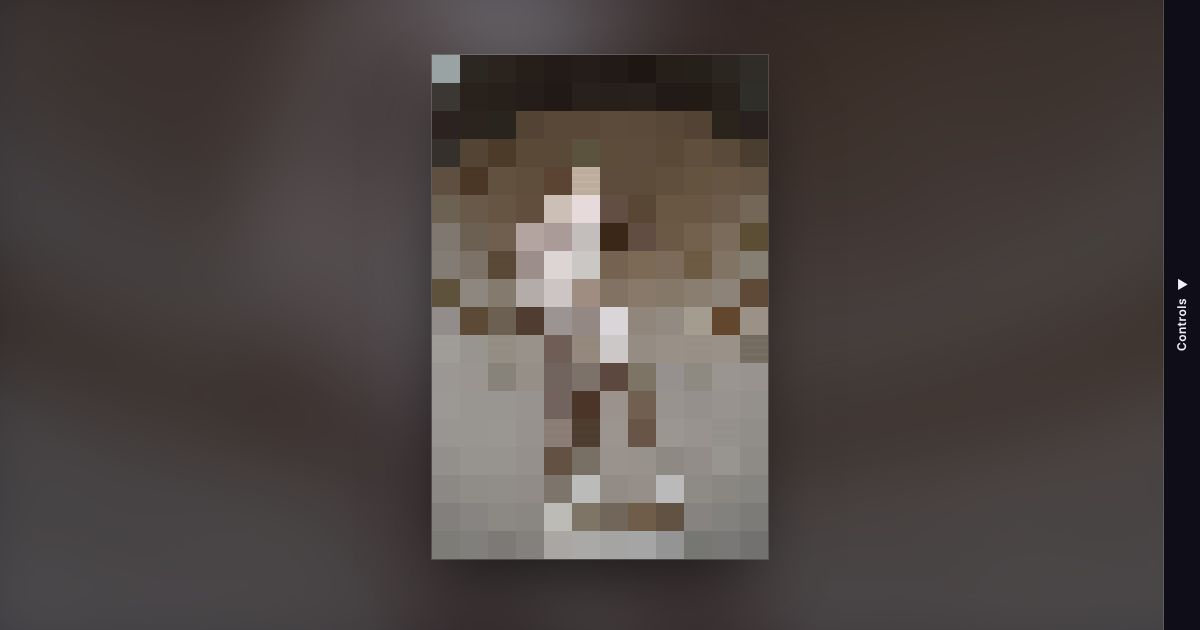
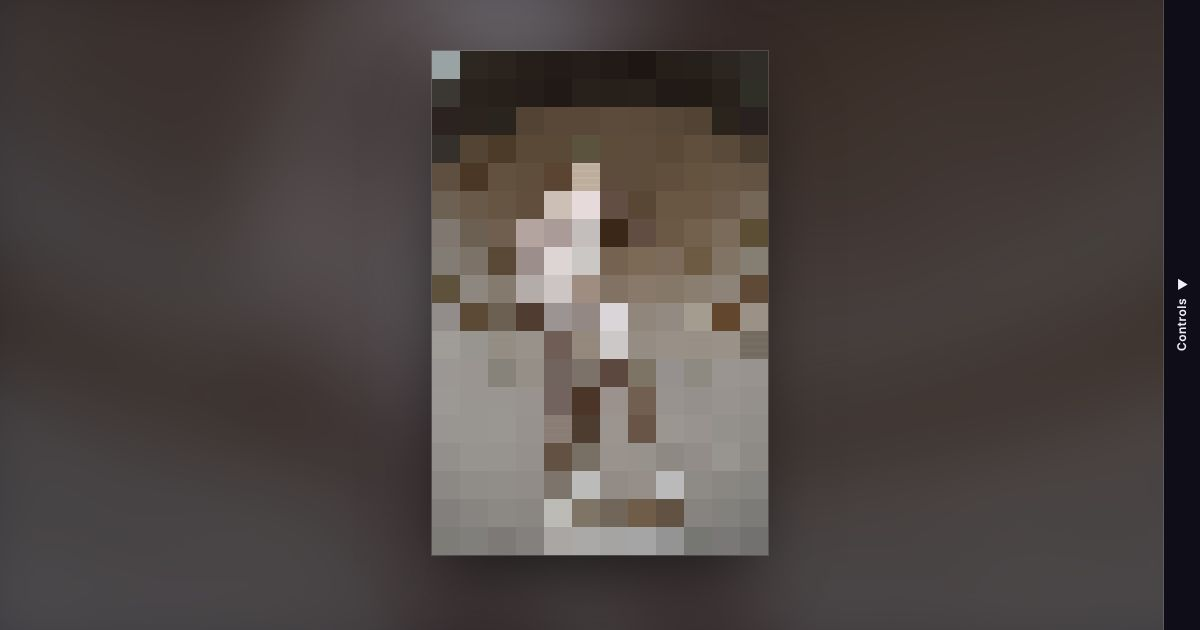
Pixelator: Halve and Double step the pixels a quarter at a time
Each step doubles the block side with pow(), so the pixel count drops
to a quarter. The steps are radio inputs read with :has(), with labels
as the buttons and a form reset to return to the loop: no script. The
loop steps through the same halvings, and a counter() readout shows the
pixel count.

Claude-Session: https://claude.ai/code/session_01KXCJqhPeu7BD1JnAoBFcPy

diff --git a/scenes/pixelator/scene.css b/scenes/pixelator/scene.css
@@ -7,6 +7,8 @@
   agree, which is what turns fine tiles into big pixels.
 */
 @property --k { syntax: "<integer>"; inherits: true; initial-value: 1; }       /* block size, in tiles */
+@property --step { syntax: "<integer>"; inherits: false; initial-value: 0; }  /* how many times the pixels are halved */
+@property --count { syntax: "<integer>"; inherits: false; initial-value: 0; }
 @property --cols { syntax: "<integer>"; inherits: true; initial-value: 48; }
 @property --rows { syntax: "<integer>"; inherits: true; initial-value: 72; }
 
@@ -15,16 +17,17 @@
     --photo: url(/scenes/pixelator/assets/david.jpg); /* from the site root: the page is served with and without a trailing slash */
     --ar: 0.6667;    /* the photo's width / height. CSS can't read that from an image, so the script sets it for an upload */
     /* Controls */
-    --size: 8;       /* the biggest block, in tiles */
+    --depth: 3;      /* how many halvings the loop goes through */
+    --level: var(--depth); /* the step on show once Halve or Double has been pressed */
     --cells: 3456;   /* how many tiles to aim for; the markup holds 3,600 */
     --loop: 16s;
-    --below: 7.5rem; /* room under the frame for the button and the credit */
+    --below: 10.5rem; /* room under the frame for the buttons and the credit */
 
     /* The tile sheet takes the photo's shape: cols x rows comes as close to --cells as whole numbers allow.
        Very long or tall photos are cropped to 3:1. */
     --shape: clamp(0.34, var(--ar), 3);
-    --cols: round(sqrt(var(--cells) * var(--shape)));
-    --rows: round(var(--cols) / var(--shape));
+    --cols: round(sqrt(var(--cells) * var(--shape)), 1);
+    --rows: round(var(--cols) / var(--shape), 1);
     /* How much of the photo the sheet covers each way once it is cropped to fit (1 = all of it) */
     --fx: min(1, var(--cols) / var(--rows) / var(--ar));
     --fy: min(1, var(--ar) * var(--rows) / var(--cols));
@@ -32,7 +35,7 @@
     --frame-edge: light-dark(#14121f33, #ffffff29);
     container-type: size;
     display: grid;
-    grid-template-rows: 1fr auto auto;
+    grid-template-rows: 1fr auto auto auto;
     justify-items: center;
     align-items: center;
     gap: 0.6rem;
@@ -66,7 +69,9 @@
     grid-template-columns: repeat(var(--cols), var(--tile));
     grid-auto-rows: var(--tile);
     overflow: clip;   /* spare tiles land in rows below the frame */
-    --k: var(--size);
+    /* Each step doubles the block's side, so the picture keeps a quarter as many pixels */
+    --step: var(--level);
+    --k: round(pow(2, var(--step)), 1);
   }
   .grid i {
     /* Column and row, counted from 0 */
@@ -95,19 +100,59 @@
     [data-indexed] .grid { display: grid; }
   }
 
-  /* The loop: sharp photo, finest tiles, bigger and bigger blocks, and back. --k is an integer, so it moves in steps,
-     and the tiles repaint only when it does. */
-  [data-auto] .grid {
-    animation: block var(--loop) linear infinite both, veil var(--loop) linear infinite both; /* paint-ok: --k repaints the tiles about twice a second */
+  /* The loop: sharp photo, finest tiles, then halve, halve, halve and back. --step is an integer, so it moves in
+     whole steps and the tiles repaint only when it does. Picking a step by hand stops the loop. */
+  .stage:not(:has(.steps :checked)) .grid {
+    animation: halve var(--loop) linear infinite both, veil var(--loop) linear infinite both; /* paint-ok: --step repaints the tiles a few times per loop */
   }
-  @keyframes block {
-    0%, 12%, 92%, 100% { --k: 1; }
-    48%, 58% { --k: var(--size); }
+  @keyframes halve {
+    0%, 14%, 90%, 100% { --step: 0; }
+    46%, 58% { --step: var(--depth); }
   }
   @keyframes veil {
     0%, 5%, 97%, 100% { opacity: 0; }
     10%, 93% { opacity: 1; }
   }
+
+  /* Halve and Double with no script: six radio buttons hold the step. From step n, the label for n + 1 is shown as
+     Halve and the label for n - 1 as Double. With nothing picked yet the loop is playing, and Halve starts at 1. */
+  .stage:has(#s0:checked) { --level: 0; }
+  .stage:has(#s1:checked) { --level: 1; }
+  .stage:has(#s2:checked) { --level: 2; }
+  .stage:has(#s3:checked) { --level: 3; }
+  .stage:has(#s4:checked) { --level: 4; }
+  .stage:has(#s5:checked) { --level: 5; }
+  .steps {
+    display: flex;
+    align-items: center;
+    justify-content: center;
+    gap: 0.5rem;
+    font-size: 0.9rem;
+  }
+  .steps input { position: absolute; opacity: 0; inline-size: 1px; block-size: 1px; }
+  .steps label { display: none; }
+  .steps:not(:has(:checked)) label[for="s1"],
+  #s0:checked ~ label[for="s1"], #s1:checked ~ label[for="s2"], #s2:checked ~ label[for="s3"],
+  #s3:checked ~ label[for="s4"], #s4:checked ~ label[for="s5"] { display: block; order: 3; }
+  #s1:checked ~ label[for="s0"], #s2:checked ~ label[for="s1"], #s3:checked ~ label[for="s2"],
+  #s4:checked ~ label[for="s3"], #s5:checked ~ label[for="s4"] { display: block; order: 1; }
+  .steps label::before { content: "Halve"; }
+  #s1:checked ~ label[for="s0"]::before, #s2:checked ~ label[for="s1"]::before, #s3:checked ~ label[for="s2"]::before,
+  #s4:checked ~ label[for="s3"]::before, #s5:checked ~ label[for="s4"]::before { content: "Double"; }
+  /* The readout counts the blocks, cut-off ones at the edges included */
+  .steps output {
+    order: 2;
+    min-inline-size: 7.5rem;
+    text-align: center;
+    font-variant-numeric: tabular-nums;
+    --count: calc(round(up, var(--cols) / pow(2, var(--level)), 1) * round(up, var(--rows) / pow(2, var(--level)), 1));
+    counter-reset: pixels var(--count);
+  }
+  .steps output::after { content: counter(pixels) " pixels"; }
+  .steps:not(:has(:checked)) output::after { content: "Looping"; }
+  .steps button { order: 4; }
+  .steps:not(:has(:checked)) button { display: none; }
+  .steps:has(:focus-visible) output { outline: 2px solid var(--c-accent); outline-offset: 2px; border-radius: 0.25rem; }
 
   .tools {
     display: flex;
@@ -118,7 +163,7 @@
     font-size: 0.9rem;
   }
   .tools[hidden] { display: none; }
-  .pick, .back {
+  .pick, .back, .steps label, .steps button {
     padding: 0.5rem 1rem;
     border: 1px solid var(--c-ink);
     border-radius: 99rem;
@@ -127,7 +172,8 @@
     cursor: pointer;
   }
   .pick { background: var(--c-ink); color: var(--c-paper); }
-  .back { background: none; color: inherit; }
+  .back, .steps label, .steps button { background: none; color: inherit; }
+  .steps label, .steps button { padding-block: 0.3rem; user-select: none; }
   .pick input { position: absolute; opacity: 0; inline-size: 1px; block-size: 1px; }
   .pick:has(:focus-visible), .back:focus-visible { outline: 2px solid var(--c-accent); outline-offset: 2px; }
   .note { flex-basis: 100%; text-align: center; opacity: 0.75; }
@@ -135,14 +181,17 @@
   .credit a { color: inherit; }
   .stage:not([data-own]) .back, [data-own] .credit { display: none; }
   /* Gallery cards show the picture alone */
-  :root:has(#card:target) :is(.tools, .credit) { display: none; }
+  :root:has(#card:target) :is(.steps, .tools, .credit) { display: none; }
   :root:has(#card:target) .stage { --below: 2rem; }
   /* A file dragged over the window */
   [data-drop] .frame { outline: 3px dashed var(--c-accent); outline-offset: 0.4rem; }
 
   @media (prefers-reduced-motion: reduce) {
-    /* A still mosaic at the chosen block size; the wipe still works, without the fade */
-    [data-auto] .grid { animation: none; }
+    /* No loop: a still mosaic of the finest tiles until a step is picked. The wipe still works, without the fade */
+    .stage { --level: 0; }
+    .stage:not(:has(.steps :checked)) .grid { animation: none; }
+    .stage .steps output::after { content: counter(pixels) " pixels"; }
+    .stage .steps button { display: none; }
     .grid i { transition: none; }
   }
 }

diff --git a/scenes/pixelator/index.html b/scenes/pixelator/index.html
@@ -5,7 +5,7 @@
 <meta name="color-scheme" content="light dark">
 <title>Pixelator</title>
 <!--css-->
-<main class="stage" data-auto aria-label="A photo of Michelangelo's David breaks into a mosaic of square tiles. The tiles merge into bigger and bigger blocks until the statue is a handful of flat colours, then split again until the photo is sharp. Move the pointer across the picture to wipe the tiles away, or swap in a photo of your own.">
+<main class="stage" aria-label="A photo of Michelangelo's David breaks into a mosaic of square tiles. The tiles merge into bigger and bigger blocks until the statue is a handful of flat colours, then split again until the photo is sharp. Halve and Double step the pixels by hand: each Halve leaves a quarter as many. Move the pointer across the picture to wipe the tiles away, or swap in a photo of your own.">
 <div class="frame">
 <div class="photo" role="img" aria-label="Michelangelo's David in the Galleria dell'Accademia, Florence"></div>
 <!-- 3,600 empty tiles: each one works out its own column and row from sibling-index() and shows one point of the photo -->
@@ -48,6 +48,18 @@
 <i></i><i></i><i></i><i></i><i></i><i></i><i></i><i></i><i></i><i></i><i></i><i></i><i></i><i></i><i></i><i></i><i></i><i></i><i></i><i></i><i></i><i></i><i></i><i></i><i></i><i></i><i></i><i></i><i></i><i></i><i></i><i></i><i></i><i></i><i></i><i></i><i></i><i></i><i></i><i></i><i></i><i></i><i></i><i></i><i></i><i></i><i></i><i></i><i></i><i></i><i></i><i></i><i></i><i></i><i></i><i></i><i></i><i></i><i></i><i></i><i></i><i></i><i></i><i></i><i></i><i></i><i></i><i></i><i></i><i></i><i></i><i></i><i></i><i></i><i></i><i></i><i></i><i></i><i></i><i></i><i></i><i></i><i></i><i></i><i></i><i></i><i></i><i></i><i></i><i></i><i></i><i></i><i></i><i></i><i></i><i></i><i></i><i></i><i></i><i></i>
 </div>
 </div>
+<!-- The steps are radio buttons. Each label is the "button" that picks the next or previous one, and Reset clears them all, which hands the picture back to the loop -->
+<form class="steps" aria-label="Pixel steps">
+<input type="radio" name="step" id="s0" aria-label="Every tile its own pixel">
+<input type="radio" name="step" id="s1" aria-label="Halved once: a quarter of the pixels">
+<input type="radio" name="step" id="s2" aria-label="Halved twice: 1/16 of the pixels">
+<input type="radio" name="step" id="s3" aria-label="Halved 3 times: 1/64 of the pixels">
+<input type="radio" name="step" id="s4" aria-label="Halved 4 times: 1/256 of the pixels">
+<input type="radio" name="step" id="s5" aria-label="Halved 5 times: 1/1024 of the pixels">
+<label for="s0" aria-hidden="true"></label><label for="s1" aria-hidden="true"></label><label for="s2" aria-hidden="true"></label><label for="s3" aria-hidden="true"></label><label for="s4" aria-hidden="true"></label><label for="s5" aria-hidden="true"></label>
+<output aria-hidden="true"></output>
+<button type="reset">Play loop</button>
+</form>
 <div class="tools" role="group" aria-label="Photo" hidden>
 <label class="pick"><input type="file" accept="image/*">Use your photo</label>
 <button type="button" class="back">Back to David</button>

diff --git a/scenes/pixelator/writeup.md b/scenes/pixelator/writeup.md
@@ -4,7 +4,7 @@ slug: pixelator
 ---
 ## The idea
 
-A photo of Michelangelo's David hangs in a frame. A sheet of small square tiles lies over it, and the tiles merge into bigger and bigger blocks until the statue is a handful of flat colours, then split again until the photo is sharp. Moving the pointer over the picture wipes the tiles away. A button swaps in a photo of your own.
+A photo of Michelangelo's David hangs in a frame. A sheet of small square tiles lies over it. Halve merges the tiles into blocks twice as wide, which leaves a quarter as many pixels, and Double splits them again. Left alone, the scene steps through the halvings on a loop. Moving the pointer over the picture wipes the tiles away. A button swaps in a photo of your own.
 
 CSS has no "average this region" and no way to read a pixel. `image-rendering: pixelated` only helps when the source is already small. So the scene does the sampling with a background.
 
@@ -26,7 +26,7 @@ Every tile paints the whole photo as its background, at 10,000,000% of the tile'
 
 `--u` and `--v` are where the tile sits on the sheet, from 0 to 1. `--fx` and `--fy` shrink that range when the photo is cropped to fit the frame.
 
-A smaller magnification shows why the number is so big. At 1,000,000% each tile carried a faint gradient, and a block of identical tiles showed it as stripes.
+A smaller magnification shows why the number is so big. At 100,000% each tile carries a visible gradient, and a block of identical tiles shows it as stripes.
 
 This is a point sample, not an average. A busy photo comes out grainier than it would from a real mosaic filter.
 
@@ -48,7 +48,7 @@ Where `sibling-index()` is missing, the script writes `--i` on each tile and the
 
 ### round() merges tiles into blocks
 
-The block size `--k` is counted in tiles. Rounding a tile's column and row down to a multiple of `--k` gives the corner of its block, and half a block more gives the middle. Every tile in a block gets the same answer, so they all show the same colour:
+The block's side `--k` is counted in tiles. Rounding a tile's column and row down to a multiple of `--k` gives the corner of its block, and half a block more gives the middle. Every tile in a block gets the same answer, so they all show the same colour:
 
 ```css
 --u: calc(min(round(down, var(--x), var(--k)) + var(--k) / 2, var(--cols) - 0.5) / var(--cols));
@@ -56,18 +56,51 @@ The block size `--k` is counted in tiles. Rounding a tile's column and row down 
 
 The `min()` keeps the last, cut-off block sampling from inside the photo. The markup never changes: 3,456 tiles are always there, and only the arithmetic makes them look like 54.
 
-### The block size is a registered integer
+### Halving: each step keeps a quarter of the pixels
+
+`--step` counts halvings, and the block's side doubles with each one:
 
 ```css
-@property --k { syntax: "<integer>"; inherits: true; initial-value: 1; }
+@property --step { syntax: "<integer>"; inherits: false; initial-value: 0; }
 
-@keyframes block {
-  0%, 12%, 92%, 100% { --k: 1; }
-  48%, 58% { --k: var(--size); }
+.grid {
+  --step: var(--level);
+  --k: round(pow(2, var(--step)), 1);
 }
 ```
 
-Because `--k` is registered as an integer, the animation moves it in whole steps. The tiles repaint only when it changes. A second animation fades the whole sheet in and out at the ends of the loop, which is where the sharp photo shows. With the Controls switch off, `--k` is simply `--size` and the scene is a plain pixelator.
+Doubling the side on both axes leaves a quarter as many pixels: David goes 3,456, 864, 216, 54, 15, 6. The last two aren't exact quarters because the blocks at the edges are cut off.
+
+The loop animates `--step` from 0 to `--depth` and back. It is registered as an integer, so it moves in whole steps and the tiles repaint only when it changes. A second animation fades the sheet out at the ends of the loop, which is where the sharp photo shows.
+
+### Halve and Double without a script
+
+The step is held by six radio buttons in a form. `:has()` reads the checked one into `--level`:
+
+```css
+.stage:has(#s2:checked) { --level: 2; }
+```
+
+Each radio has a `<label>`. From step 2, the label for step 3 is shown with the word Halve and the label for step 1 with the word Double; the rest stay hidden. Clicking a label checks its radio, which is all a button would do:
+
+```css
+#s2:checked ~ label[for="s3"] { display: block; order: 3; }   /* Halve */
+#s2:checked ~ label[for="s1"] { display: block; order: 1; }   /* Double */
+```
+
+While nothing is checked, the loop plays. The first press of Halve checks step 1 and the loop's selector, `.stage:not(:has(.steps :checked))`, stops matching. Play loop is a plain `<button type="reset">`: resetting the form unchecks every radio, and the loop starts again. The arrow keys move through the radios too.
+
+### Counting pixels with counter()
+
+The readout between the buttons is a CSS counter. A registered integer takes the arithmetic, and `counter-reset` turns it into text:
+
+```css
+.steps output {
+  --count: calc(round(up, var(--cols) / pow(2, var(--level)), 1) * round(up, var(--rows) / pow(2, var(--level)), 1));
+  counter-reset: pixels var(--count);
+}
+.steps output::after { content: counter(pixels) " pixels"; }
+```
 
 ### The sheet takes the photo's shape
 
@@ -75,8 +108,8 @@ The script tells CSS one thing about an uploaded photo: its aspect ratio, `--ar`
 
 ```css
 --shape: clamp(0.34, var(--ar), 3);
---cols: round(sqrt(var(--cells) * var(--shape)));
---rows: round(var(--cols) / var(--shape));
+--cols: round(sqrt(var(--cells) * var(--shape)), 1);
+--rows: round(var(--cols) / var(--shape), 1);
 ```
 
 David is 2:3, which gives 48 by 72. A 4:3 photo gets 68 by 51. Tiles left over land in rows below the frame and are clipped. The tile's side is rounded down to a whole pixel, so tiles meet without seams:
@@ -109,13 +142,14 @@ The photo is read in place. Nothing is uploaded.
 
 - No `sibling-index()`: the script supplies `--i`.
 - No `round()` or `mod()`, or no script and no `sibling-index()`: the tile sheet stays hidden and the frame shows the photo.
-- Reduced motion: a still mosaic at the chosen block size. The wipe works without its fade.
+- Reduced motion: no loop. The finest tiles show until a step is picked, and the wipe works without its fade.
 
 ## Numbers
 
-- Page: 5.2 KiB Brotli of a 14 KiB budget (HTML, CSS and script).
+- Page: 5.8 KiB Brotli of a 14 KiB budget (HTML, CSS and script).
 - Default photo: 94 KB JPEG, loaded as a separate file.
-- 3,600 tile elements. A block-size step restyles all of them, which took about 0.2 s in the headless cloud browser used to build this (software rendering, slow CPU). It has not been measured on a real machine yet.
+- In software rendering, about one tile in 150 shows a faint two-tone split, because the renderer's interpolation is coarse at this magnification. A GPU should interpolate more finely; that is not checked yet.
+- 3,600 tile elements. A step restyles all of them, which took about 0.2 s in the headless cloud browser used to build this (software rendering, slow CPU). It has not been measured on a real machine yet.
 
 ## Credit
 

diff --git a/scenes/pixelator/brief.md b/scenes/pixelator/brief.md
@@ -3,7 +3,7 @@
 Status: APPROVED. The owner asked for this scene on 2026-11-10 ("a css image 'pixelator' scene", with "a control for the user to upload their own photo, which can replace the default photo", and "a photo of Michelangelo's David statue" as the default). Claude picked everything else below, including the slug, and those choices have not been reviewed separately.
 
 ## Concept / mood / motion language
-- **Concept:** A framed photo of Michelangelo's David breaks into square tiles. The tiles merge into bigger and bigger blocks until the statue is a few flat colours, then split again until the photo is sharp.
+- **Concept:** A framed photo of Michelangelo's David breaks into square tiles. Halve merges the tiles into blocks twice as wide (a quarter as many pixels) and Double splits them; left alone, the scene steps through the halvings on a loop. The owner asked for the step-at-a-time halving on 2026-11-10.
 - **Mood:** A museum wall and a censor bar: calm, slightly cheeky.
 - **Motion language:** Step, hold, step back. No easing: pixels snap.
 
@@ -14,12 +14,12 @@ Status: APPROVED. The owner asked for this scene on 2026-11-10 ("a css image 'pi
 1. Wall: the photo again, covering the stage, blurred (`.stage::before`).
 2. `.photo`: the photo, sharp, in a frame with the photo's shape.
 3. `.grid`: up to 3,456 square tiles (`<i>`), each showing one point of the photo.
-4. Under the frame: the photo button, a privacy line and the photo credit.
+4. Under the frame: Double, a pixel count, Halve and Play loop (radio inputs and labels, no script), the photo button, a privacy line and the photo credit.
 
 ## Motion plan
 | element | property | trigger | duration | compositor-safe? |
 |---|---|---|---|---|
-| `.grid` | `--k` (registered integer, the block size) 1 → `--size` → 1 | time | `--loop` 16s | paint-ok: it steps about twice a second and repaints the tiles |
+| `.grid` | `--step` (registered integer, the number of halvings) 0 → `--depth` → 0 | time, until a step is picked by hand | `--loop` 16s | paint-ok: it steps about twice a second and repaints the tiles |
 | `.grid` | `opacity` 0 → 1 → 0 at the ends of the loop | time | `--loop` | yes |
 | tile | `opacity` to 0 on hover, fading back | hover | `--t-slow` | yes |
 
@@ -28,12 +28,12 @@ Everything runs on the one `--loop` clock, so the shared Playback tab's loop-off
 ## Techniques (Baseline status and fallback)
 - **Point sampling with `background-size`:** each tile paints the photo magnified until one point fills it. Widely available.
 - **`sibling-index()`** gives each tile its number; `mod()` and `round()` turn it into a column and row. `sibling-index()` is newly available (2026-08); the script writes `--i` where it is missing.
-- **`round()` to merge tiles into blocks**, with the block size as an `@property` integer. `round()`/`mod()` newly available (2024-05). Without them the frame shows the plain photo.
+- **`round()` to merge tiles into blocks**, with the number of halvings as an `@property` integer and `pow()` for the block's side. Halve and Double are radio inputs read with `:has()`. `round()`/`mod()` newly available (2024-05). Without them the frame shows the plain photo.
 - **`sqrt()`** picks columns and rows from the photo's aspect ratio. Widely available.
 - Baseline notes are from knowledge; `modern-web-guidance` is blocked in the cloud sandbox.
 
 ## Reduced-motion frame
-A still mosaic at the chosen block size. The hover wipe still works, without the fade.
+No loop: the finest tiles show until a step is picked. The hover wipe still works, without the fade.
 
 ## Exceptions
 - **JavaScript (`scene.js`):** CSS can't open a file picker's result or read an image's shape. The script sets `--photo` and `--ar` for a photo that is picked, dropped or pasted, and writes `--i` for browsers without `sibling-index()`. The photo never leaves the device.
@@ -43,7 +43,7 @@ A still mosaic at the chosen block size. The hover wipe still works, without the
 `lib/stage`. Candidate: the tile-index rules (column and row from `sibling-index()`).
 
 ## Budget & targets
-14 KiB Brotli for HTML, CSS and JS (5.2 KiB as built). CLS 0.
+14 KiB Brotli for HTML, CSS and JS (5.8 KiB as built). CLS 0.
 
 ## Open questions for the human
 - The point sample takes one pixel, not an average, so busy photos look grainier than a true mosaic. Fine for a CSS demo?
